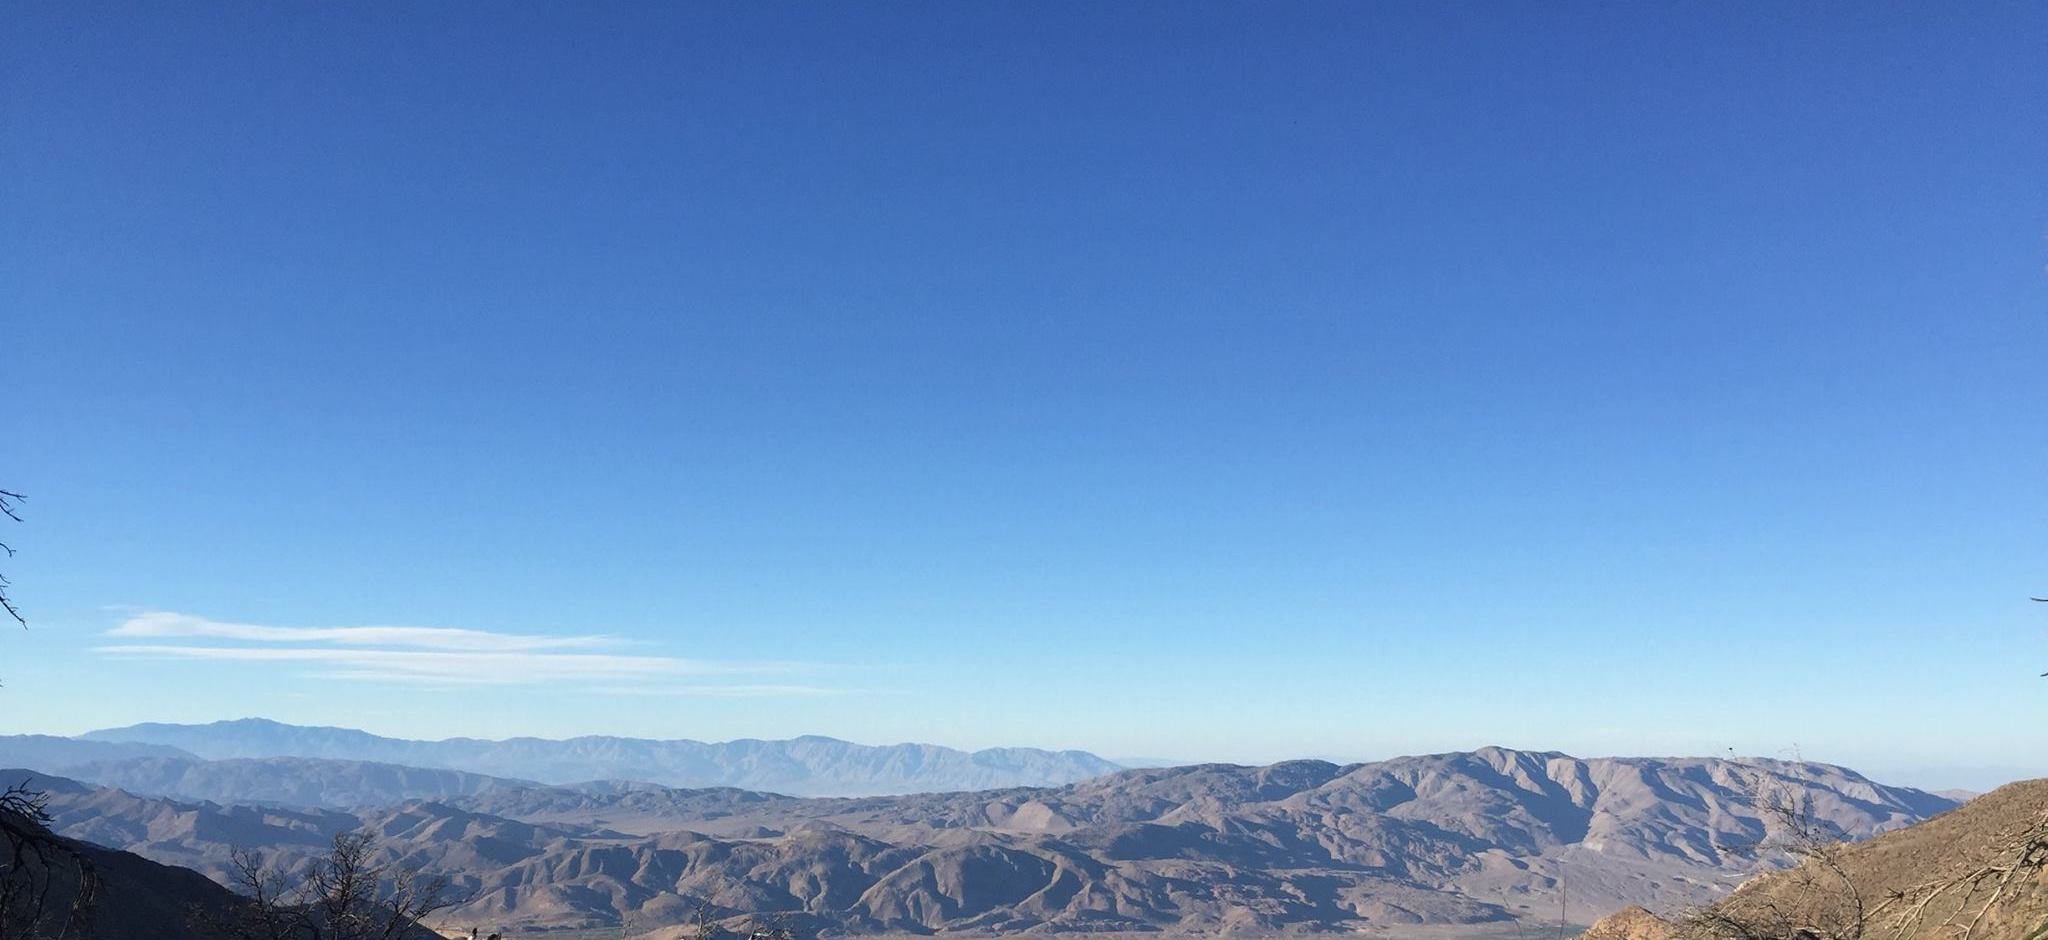
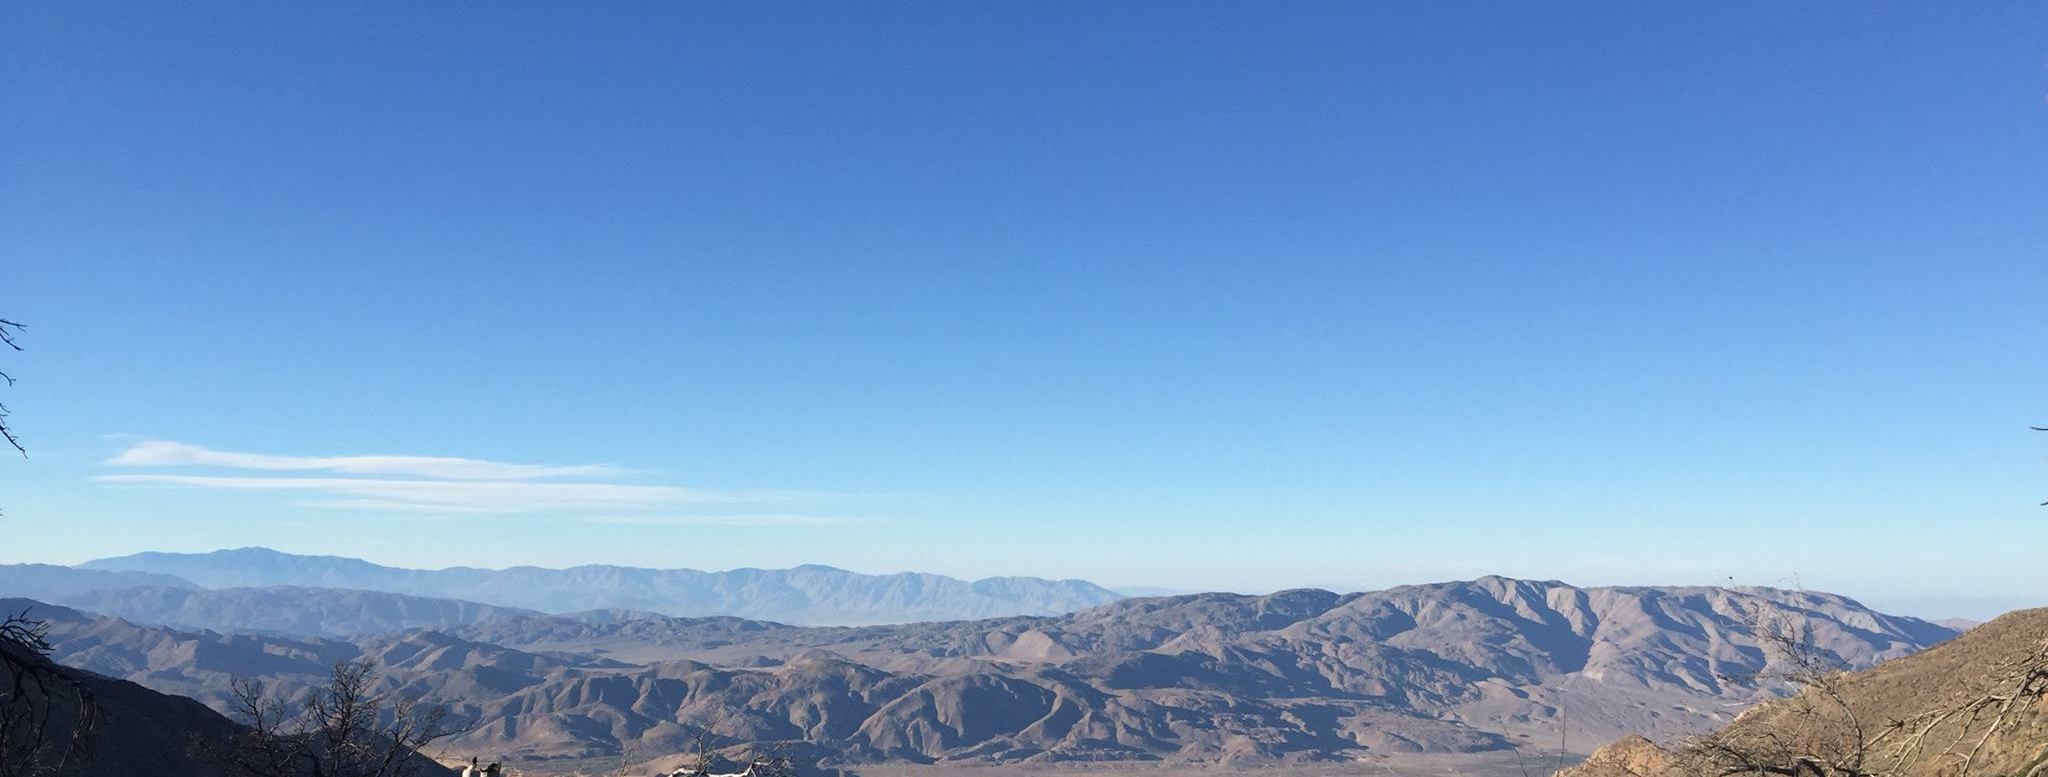
arrangement of containers complete

diff --git a/src/pages/index.js b/src/pages/index.js
@@ -17,7 +17,7 @@ export default () => (
 
     <Navigation/>
 
-    <Jumbotron fluid className="text-center" style={{backgroundColor: "#24292e"}}>
+    <Jumbotron fluid className="text-center" style={{backgroundColor: "#24292e", paddingTop: "10%", paddingBottom: "10%"}}>
       <Container>
         <h1 className="text-light">Husband. Scientist. Trail Runner.</h1>
         <h4 className="text-muted">Creativity and imagination are great starting places, but hard-headed thinking and extreme attention to detail are essential to success.</h4>
@@ -26,7 +26,7 @@ export default () => (
     </Jumbotron>
 
     <Container>
-      <Row className="align-items-center">
+      <Row>
         <Col lg>
           <Card className="text-center mt-5">
             <Card.Body>
@@ -49,15 +49,9 @@ export default () => (
           </Card>
         </Col>
       </Row>
+    </Container>
 
-      <Row className="mt-5">
-        <Col lg>
-          <Card className="text-center">
-            <Card.Img src={mountLaguna} />
-          </Card>
-        </Col>
-      </Row>
-
+    <Container>
       <Row>
         <Col md className="mt-5 mt-5">
           <Card className="text-center">
@@ -72,22 +66,38 @@ export default () => (
           </Card>
         </Col>
 
-        <Col lg className="mt-4">
-          <Card className="text-center" border="0">
+        <Col md className="mt-5 mt-5">
+          <Card className="text-center">
+            <Card.Header>Featured</Card.Header>
             <Card.Body>
-              <Card.Title>Eclipsing Binary: KOI-3570</Card.Title>
-              <Card.Img src={eclipsingBinary} />
-              <Card.Text>Plot the primary and secondary eclispses of a star system using data from a FITS file.</Card.Text>
-              <Button variant="dark">Source Code</Button>
+              <Card.Title>Special title treatment</Card.Title>
+              <Card.Text>
+                With supporting text below as a natural lead-in to additional content.
+              </Card.Text>
+              <Button variant="dark">Go somewhere</Button>
             </Card.Body>
           </Card>
         </Col>
       </Row>
     </Container>
 
-    <Jumbotron fluid className=" text-center mt-5 pt-4 pb-1" style={{backgroundColor: "#f2f2f2"}}>
+    <Container fluid style={{margin: "80px 0 0 0", padding: "0"}}>
+      <Row>
+        <Col lg>
+          <Card className="text-center" text="white" border="0">
+            <Card.Img src={mountLaguna} />
+            <Card.ImgOverlay style={{backgroundColor: "rgba(0, 0, 0, 0.7)"}}>
+              <h1>Never Stop.</h1>
+              <h4 className="text-muted">Keep moving forward.</h4>
+            </Card.ImgOverlay>
+          </Card>
+        </Col>
+      </Row>
+    </Container>
+
+    <Jumbotron fluid className=" text-center" style={{backgroundColor: "#f2f2f2", margin: "0", padding: "20px 0 0 0"}}>
       <Container>
-        <p className="text-muted">My Footer is Under Development.</p>
+        <p>Location: Mount Laguna, CA.</p>
         <hr/>
         <Row>
           <Col md>
